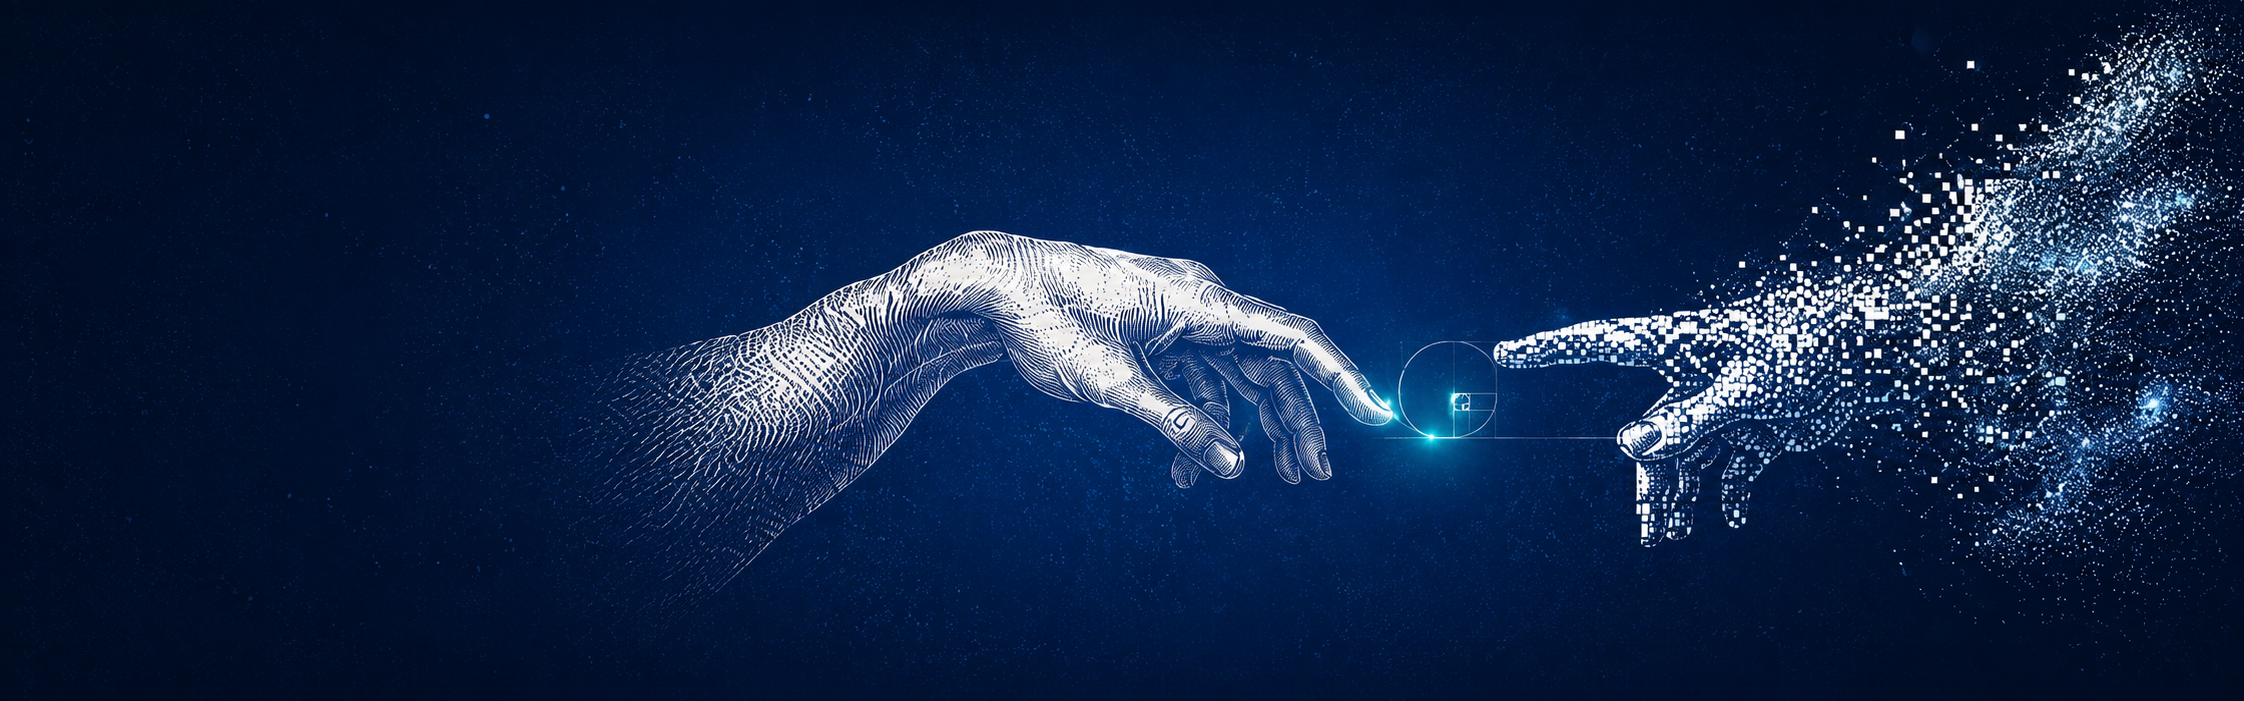
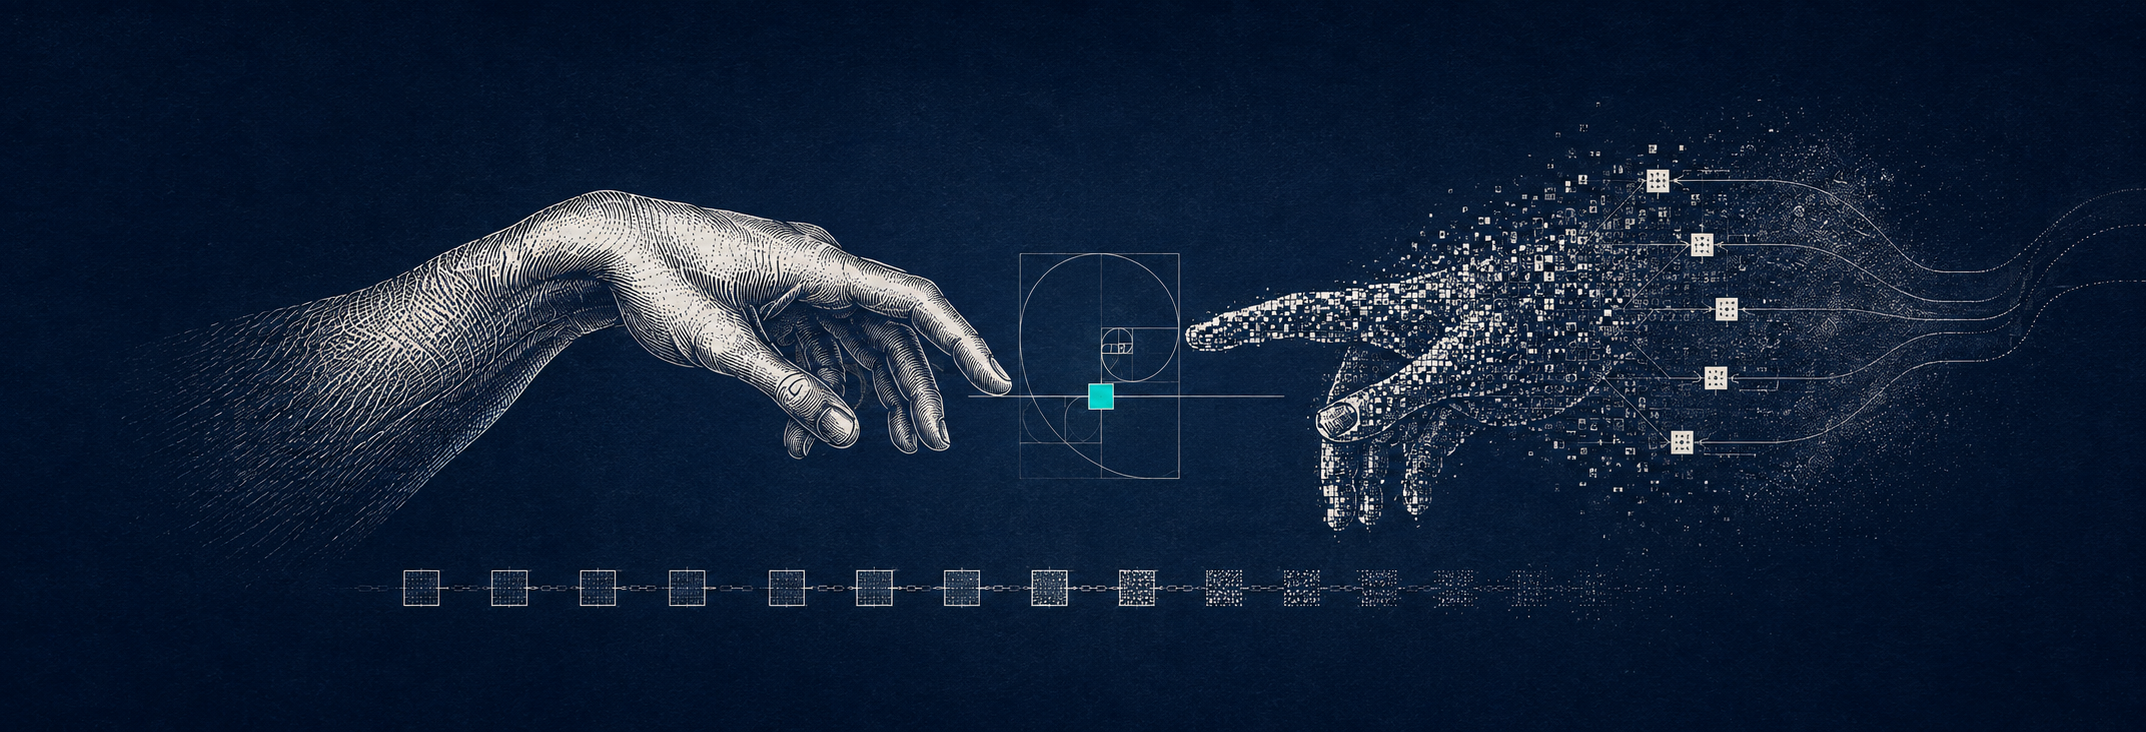
docs: the plates carry the product's own iconography
Three revised images from Tuana.

The masthead now carries a complete Eye of Horus — the falcon brow bar, the
teardrop from the inner corner, and the outward curl drawn as the golden
spiral, so the Egyptian flourish and the geometry are one line rather than
two ideas side by side. The eye's brow is the cloud. The wedjat is an amulet
of protection and restoration rather than a symbol of surveillance, which is
the right reading for a product that watches in order to hand the decision
to a person. Its line now matches the masthead's own tagline too: the
machine watches, the human decides.

The closing plate keeps the two hands and the golden-ratio construction
between the fingertips, and adds a chain of blocks running beneath them,
dissolving left to right — the hash-chained ledger, drawn.

The architecture card is REV B and it is no longer a summary: three source
lanes into one deterministic core, the detector registry naming all three
scorers, the mission DSL, the reflex engine, the six-agent roster, the
decision memory writing back from human verdicts, the lifecycle, the
simulated execution, the read side, and the hash-chained ledger with its
verify. Three inset studies carry the parts usually taken on trust — the
three-lane routing, the debate ladder with dissent and abstention, and the
ledger seal from previous hash to entry hash. Every element on it is
something this repository actually does.

Alt text rewritten for all three, because a plate this dense is worth
[…]

diff --git a/README.md b/README.md
@@ -51,9 +51,9 @@ explained, argued, approved by a named human, and provable afterwards.
 
 <div align="center">
 
-<img src="docs/img/architecture_card.png" alt="CloudSentinel agentic AI architecture, drawn as an engineering blueprint: cloud signals feed detection; the Gemini-backed agent orchestration runs analyst, recommender and a skeptical review; a human approval gate precedes simulated execution; audit and decision memory close the loop back into detection. Inset details show the loop topology, the approval gate and a typical node in cross-section." width="100%" />
+<img src="docs/img/architecture_card.png" alt="CloudSentinel accountable agentic operations, drawn as an engineering blueprint. Three source lanes — cost/billing, security events and fraud events — enter a deterministic core of detector registry (z-score, MAD, residual), mission DSL, reflex engine and rule score. The agent layer runs analyst, recommender, decision memory and a skeptic or three-seat review panel on contested critical signals, all publishing to an agent bus. A human approval gate governs the lifecycle from proposed through approved or rejected to executed, with execution simulated. The read side carries the unified watch, analytics, receipts and the operator desk, and every verdict is sealed into a hash-chained audit ledger verified by /audit/verify. Inset studies show the three-lane routing, the debate ladder and the ledger seal." width="100%" />
 
-<sub>The eight stages, and the one that is a gate rather than a step: **⑥ human approval**. Nothing downstream of it runs without a hand.</sub>
+<sub>Twenty numbered stages, and one of them is a gate rather than a step: **⑫ human approval**. Nothing to the right of it runs without a hand. The three studies along the bottom are the parts most often taken on trust — how three lanes share one detection line, when a single skeptic becomes a three-seat panel, and what the ledger actually seals.</sub>
 
 </div>
 
@@ -1123,6 +1123,6 @@ CloudSentinel closes the gap between *"your cloud bill spiked"* and *"someone ac
 
 ---
 
-<img src="docs/img/banner_hands.png" alt="every action awaits a human hand" width="100%" />
+<img src="docs/img/banner_hands.png" alt="Michelangelo's two hands reaching toward each other — the human hand engraved, the machine's hand dissolving into pixels — with a golden-ratio construction at the gap between the fingertips and a hash-chain of blocks running beneath them" width="100%" />
 
 <div align="center"><sub>Built by Team CloudSentinel — YZTA Bootcamp 2026 · AI Track · Group 60</sub></div>
